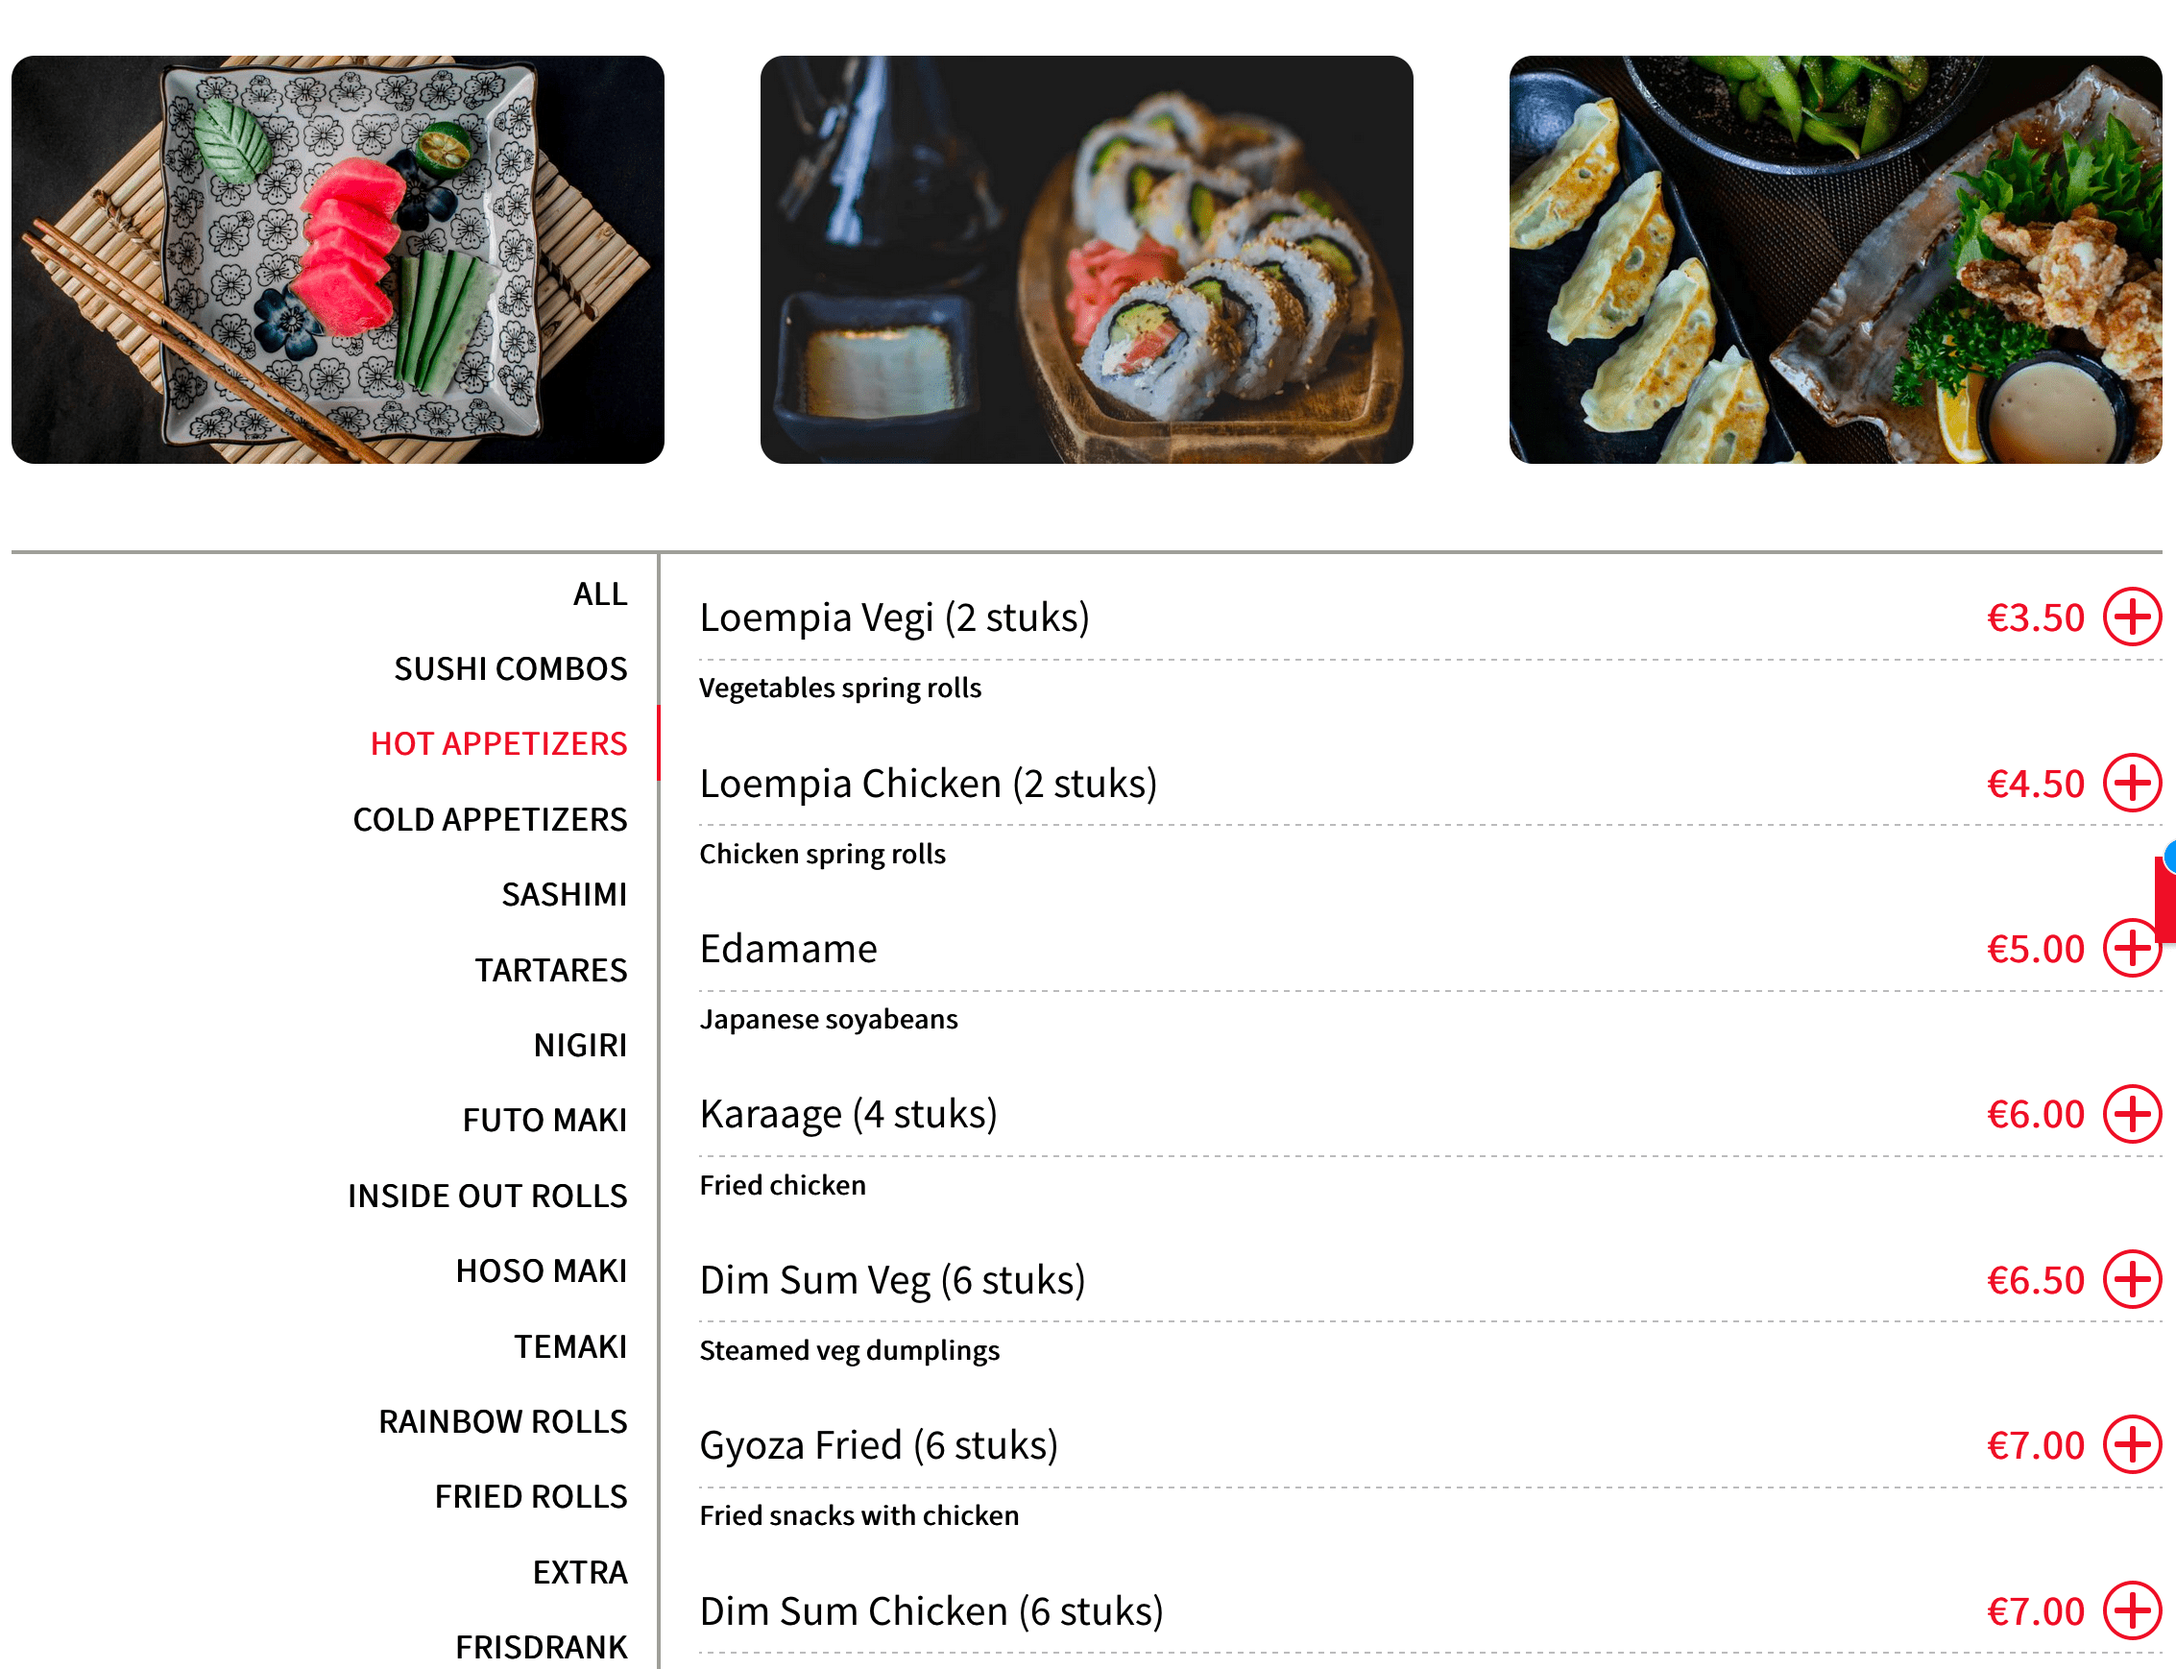
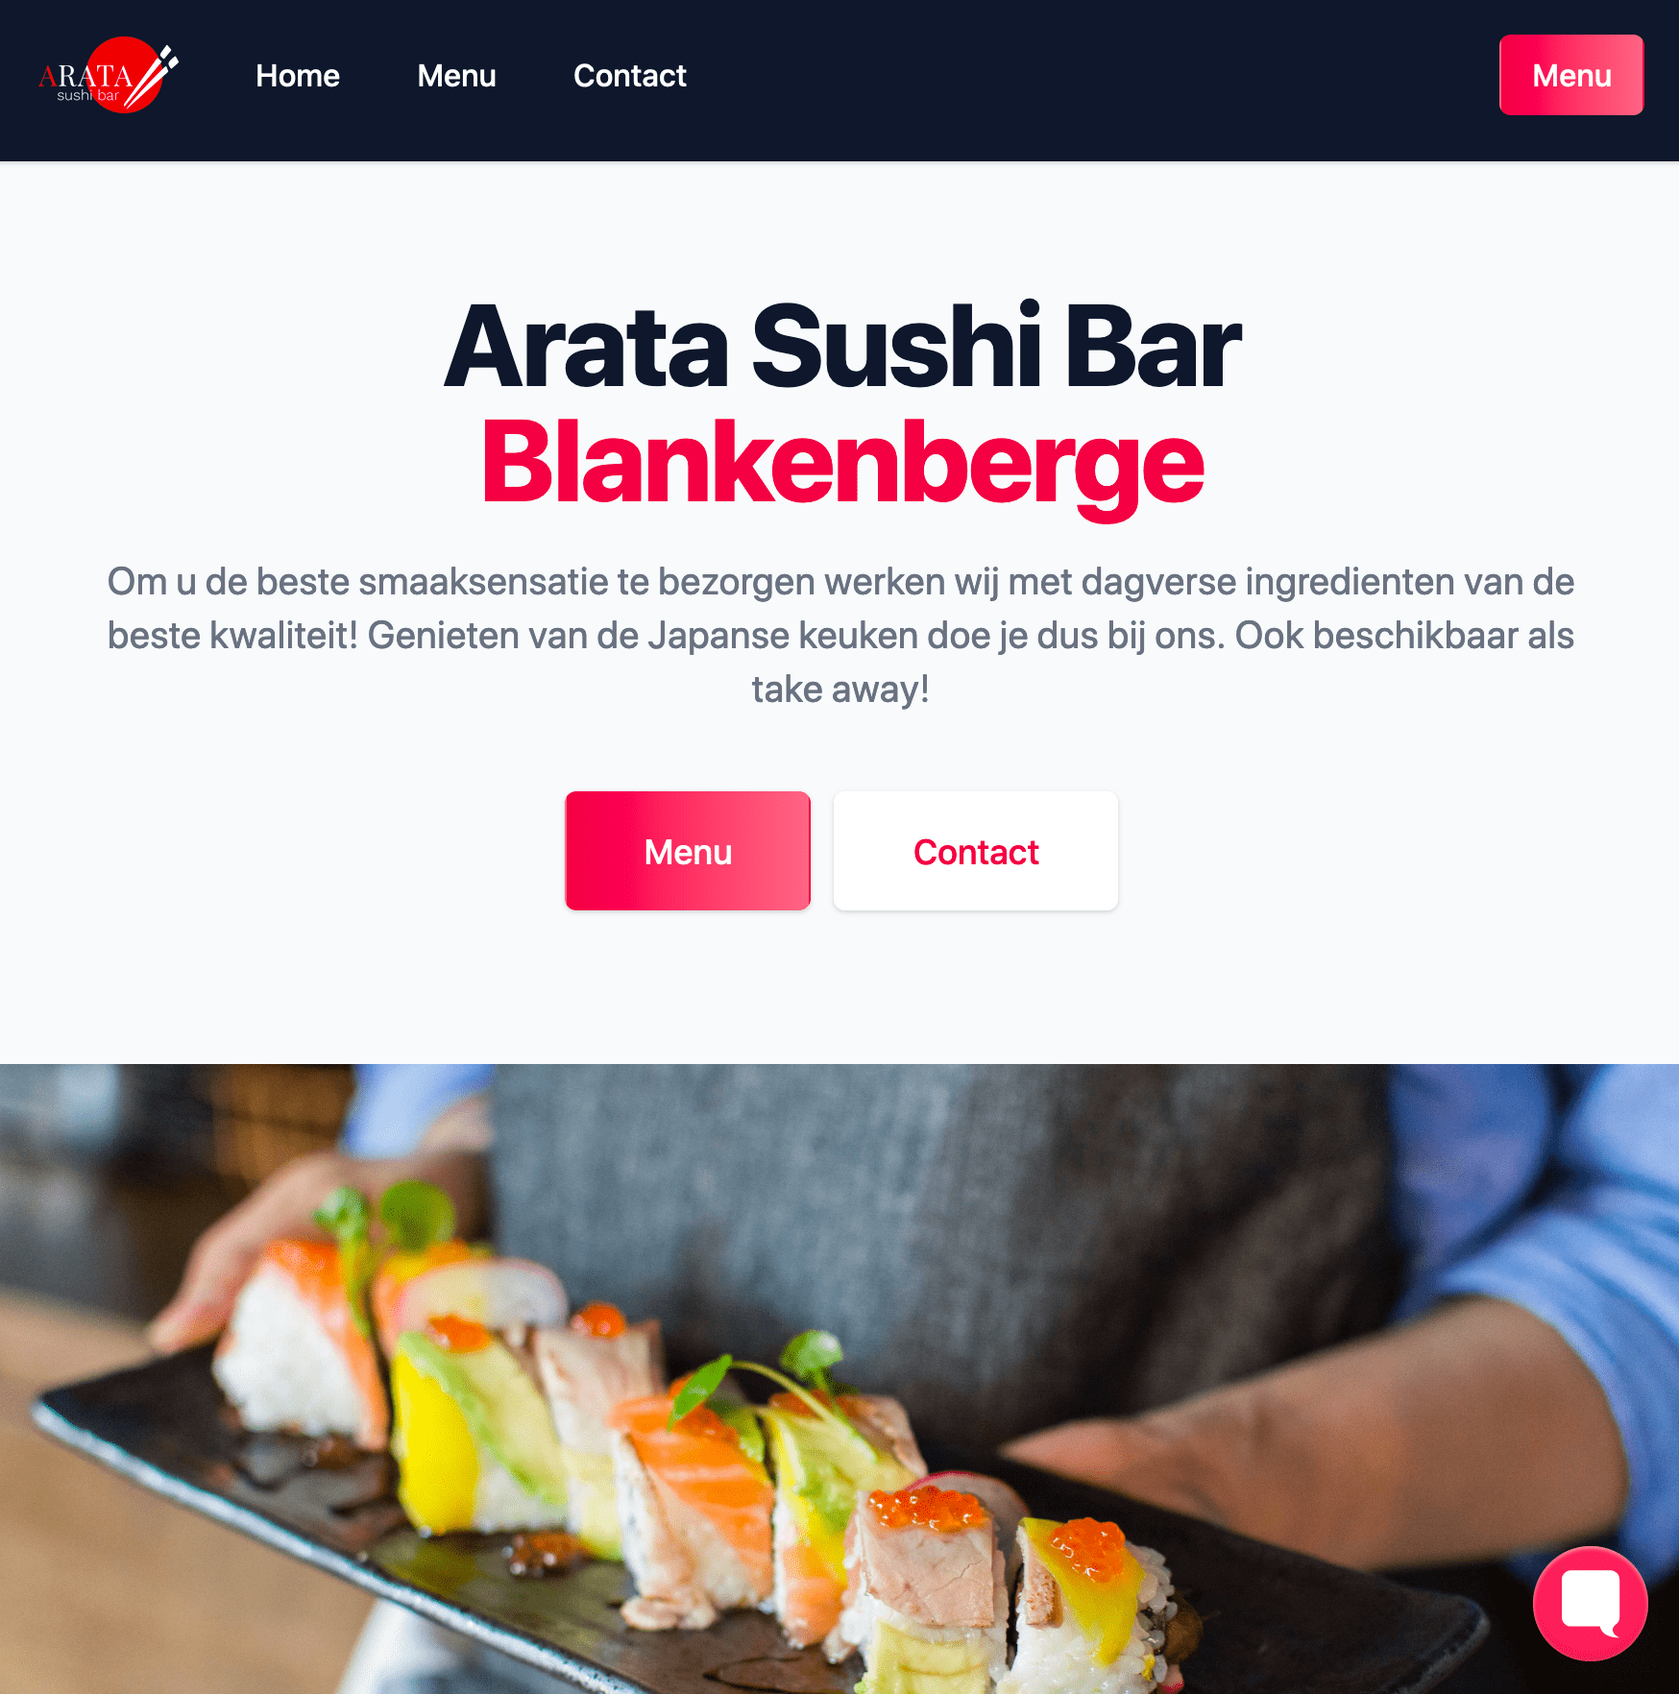
CHange wordpress to tailwind

diff --git a/index.html b/index.html
@@ -420,14 +420,14 @@
                     <h3
                       class="inline-flex px-4 py-1 text-sm leading-5 font-semibold tracking-wide uppercase text-blue-500"
                     >
-                      WORDPRESS
+                      TAILWIND
                     </h3>
                     <div>
-                      <a href="https://www.aratasushi.be/">
+                      <a href="https://arata-sushi.netlify.app/index.html">
                         <img
                           class="w-32 justify-center m-auto h-56 w-full object-cover sm:h-72 md:h-96"
                           src="./assets/images/aratasushi.png"
-                          alt="arata sushi wordpress screenshot"
+                          alt="arata sushi screenshot"
                         />
                       </a>
                     </div>
